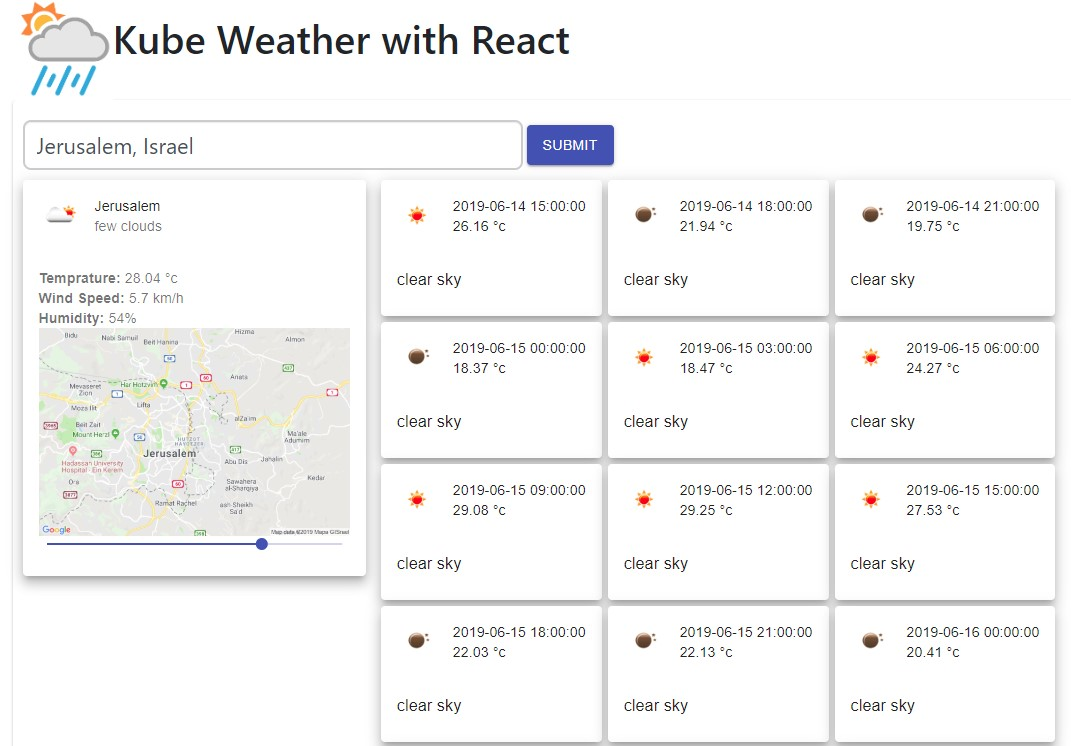
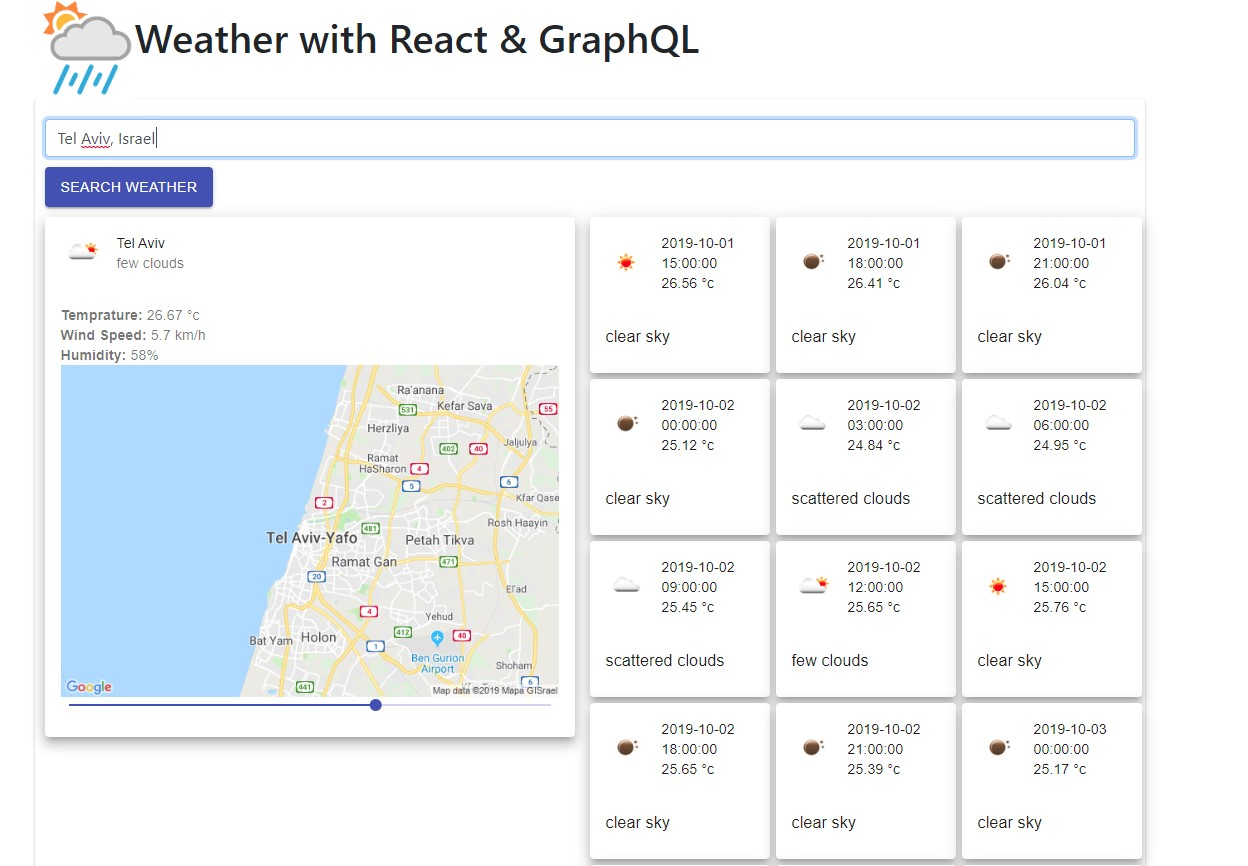
update docs

Changed region(s): [[0.0, 0.0, 1.0, 1.0], [0.3697, 0.9249, 0.4314, 0.9558]]

diff --git a/client/src/App.js b/client/src/App.js
@@ -109,7 +109,7 @@ export default class App extends React.Component {
       <div>
         <Container >
[1 lines of base64/hex data omitted]
-          <h1 style={{ display: "inline" }}>Kube Weather with React</h1>
+          <h1 style={{ display: "inline" }}>Weather with React &amp; GraphQL</h1>
           <Paper style={{ padding: 10 }}>
             <Form onaction={this.onWeatherSubmit} />
             <Error errors={this.state.errors} />

diff --git a/README.md b/README.md
@@ -1,6 +1,13 @@
-# Kube Weather
+# Weather
 
 ## Show current and forecast weather
+
+Teach myself ReactJS and GraphQL
+
+Shows the location on the map and current weather along with 40 forecasts.
+
 ![](docs/screen1.jpg)
 
-Shows the location on the map and current weather along with 30 forecasts.
+[Demo Site](https://weather.schwartzman.info)
+
+[GraphQL API](https://weather.schwartzman.info/graphql)
